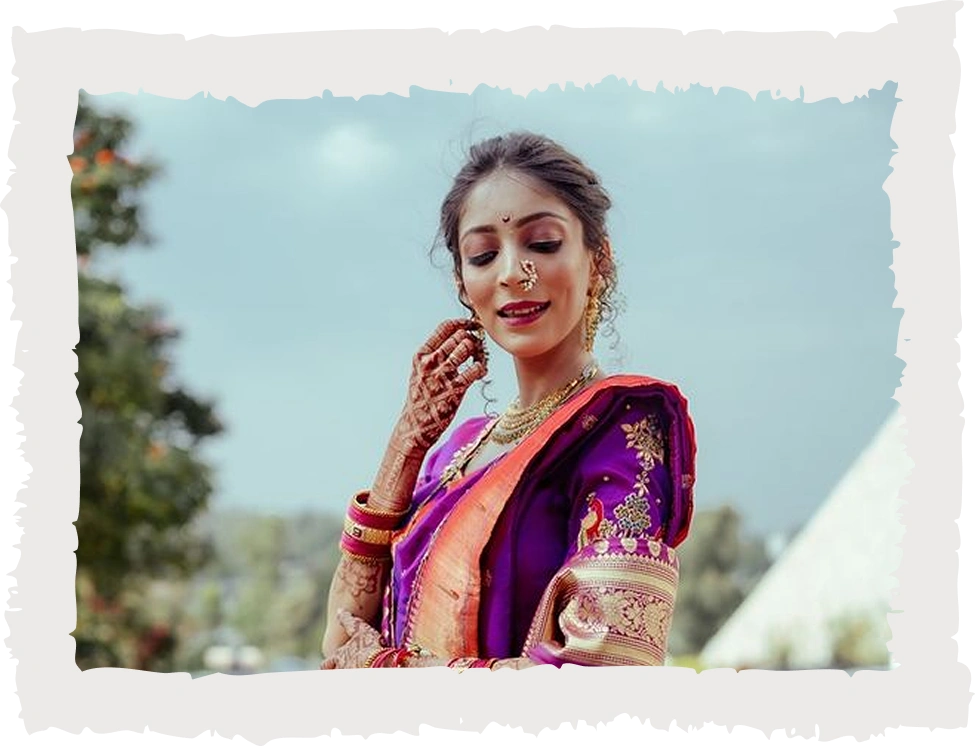
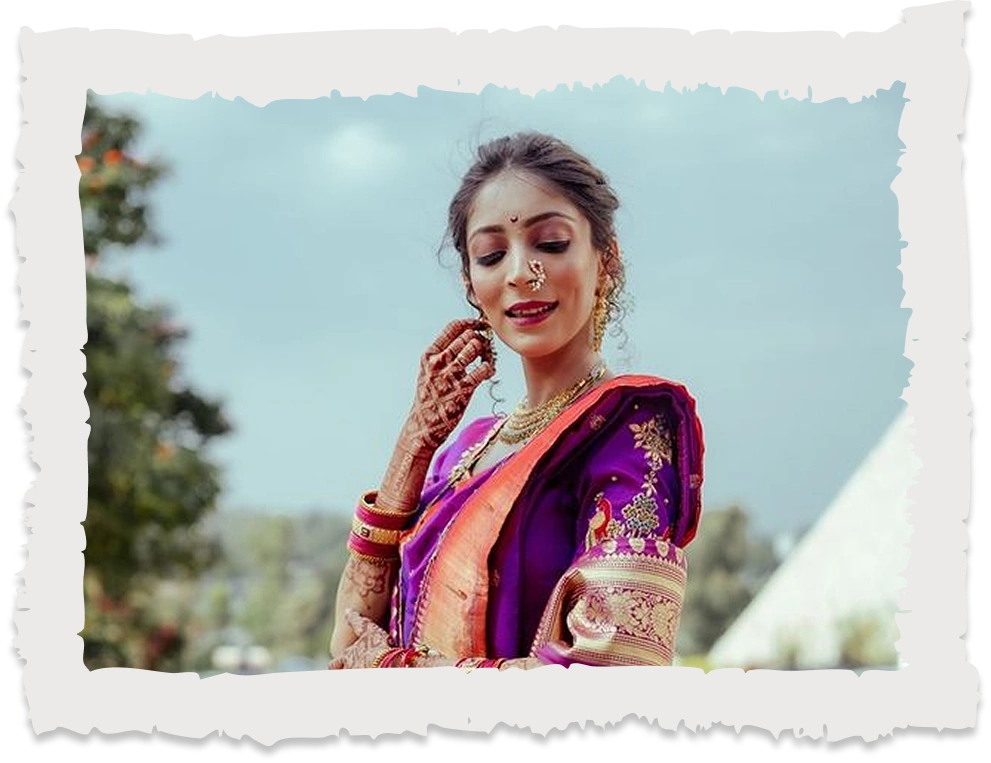
update

diff --git a/app/page.tsx b/app/page.tsx
@@ -289,7 +289,7 @@ export default function Home() {
           </div>
 
           <div className="flex justify-center mt-20 lg:pt-0 pb-80 3xl:pb-120">
-            <div className="grid grid-cols-1 sm:grid-cols-2 lg:grid-cols-3 gap-16 lg:gap-28 3xl:gap-36 ">
+            <div className="grid grid-cols-1 sm:grid-cols-2 lg:grid-cols-3 gap-16 lg:gap-28 3xl:gap-46 ">
               {events.map((event, i) => (
                 <div key={i} className="flex flex-col items-center text-center">
                   <img
@@ -343,7 +343,7 @@ export default function Home() {
       {/* Third section */}
       <section className="bg-[url('/assets/respo_third.webp')] md:bg-[url('/assets/background_third.webp')] bg-cover bg-no-repeat bg-top md:bg-center w-full overflow-hidden">
       
-       <div className="h-454 md:h-516 lg:h-957 3xl:h-1192">
+       <div className="h-454 md:h-516 lg:h-957 3xl:h-1182">
         <h1 className="text-xl md:text-2xl lg:text-[36px] text-center text-[#FFFFFF] pt-14 md:pt-22 lg:pt-40 3xl:pt-55 jacques-francois">A message from the couple</h1>
           <h2 className="text-xs md:text-xl lg:text-[32px] text-center text-[#FFFFFF] px-8 md:px-16 lg:px-53 3xl:px-100 mt-8
                          md:mt-16 lg:mt-36 jacques-francois leading-snug md:leading-6 lg:leading-8 3xl:leading-10">
@@ -364,11 +364,11 @@ export default function Home() {
           </h2>
           </div>
           <img src="/assets/couple_two.webp" alt="couple_two" className="absolute top-15 left-12 w-28 h-38 md:top-25 md:left-35 md:w-50 md:h-65 
-                    lg:top-50 lg:left-50 lg:w-108 lg:h-126 3xl:top-60 3xl:left-80 3xl:w-120 3xl:h-180 z-0" />
-          <img src="/assets/flowers.webp" alt="flowers" className=" w-24 h-30 md:w-40 md:h-46 lg:w-58 lg:h-96 3xl:w-90 3xl:h-118 3xl:mt-10 z-40" />
+                    lg:top-50 lg:left-50 lg:w-108 lg:h-126 3xl:top-60 3xl:left-70 3xl:w-130 3xl:h-180 z-0" />
+          <img src="/assets/flowers.webp" alt="flowers" className=" w-24 h-30 md:w-40 md:h-46 lg:w-58 lg:h-96 3xl:w-90 3xl:h-118 3xl:mt-7 3xl:ml-26 z-40" />
           <img src="/assets/couple_three.webp" alt="couple_three" className="absolute top-15 right-12 w-28 h-44 md:top-25 md:right-40 md:w-50 md:h-75 
-                    lg:top-55 lg:right-50 lg:w-108 lg:h-146 3xl:top-60 3xl:right-70 3xl:w-130 3xl:h-200 z-20" />
-          <img src="/assets/couple_four.webp" alt="couple_four" className="mt-4 w-30 h-20 md:w-60 md:h-40 lg:w-123 lg:h-96 lg:mt-8 3xl:mt-20 3xl:w-135 3xl:h-108 z-10" />
+                    lg:top-55 lg:right-50 lg:w-108 lg:h-146 3xl:top-60 3xl:right-65 3xl:w-140 3xl:h-200 z-20" />
+          <img src="/assets/couple_four.webp" alt="couple_four" className="mt-4 w-30 h-20 md:w-60 md:h-40 lg:w-123 lg:h-96 lg:mt-8 3xl:mt-20 3xl:w-140 3xl:h-108 3xl:mr-15 z-10" />
         </div>
         <div className="lg:mt-50">
            <h1 className=" text-3xl md:text-6xl lg:text-[122px] text-center text-[#FFFFFF] md:pt-29 lg:pt-32 pt-22 jacques-francois">
@@ -451,7 +451,7 @@ export default function Home() {
        {/* Fourth section */}
        <section className="bg-[url('/assets/background_fourth.webp')] bg-cover bg-no-repeat">
         <div className="h-86 md:h-182 lg:h-338 3xl:h-426 flex justify-center">
-          <img src="/assets/couple_name.webp" alt="couple_name" className="mt-6 w-30 h-15 md:mt-15 md:w-50 md:h-25 lg:mt-30 lg:w-80 lg:h-40 3xl:mt-40 3xl:w-100 3xl:h-50" />
+          <img src="/assets/couple_name.webp" alt="couple_name" className="mt-6 w-30 h-15 md:mt-15 md:w-50 md:h-25 lg:mt-30 lg:w-80 lg:h-40 3xl:mt-40 3xl:w-105 3xl:h-60" />
         </div>
        </section>
 
